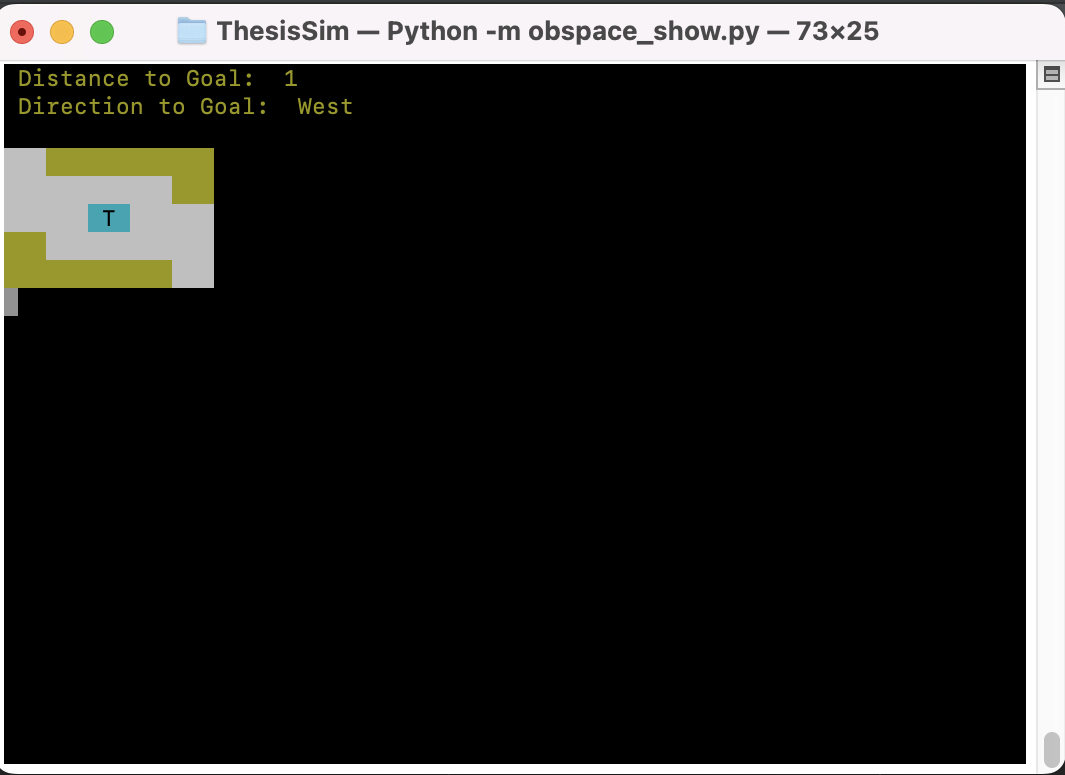
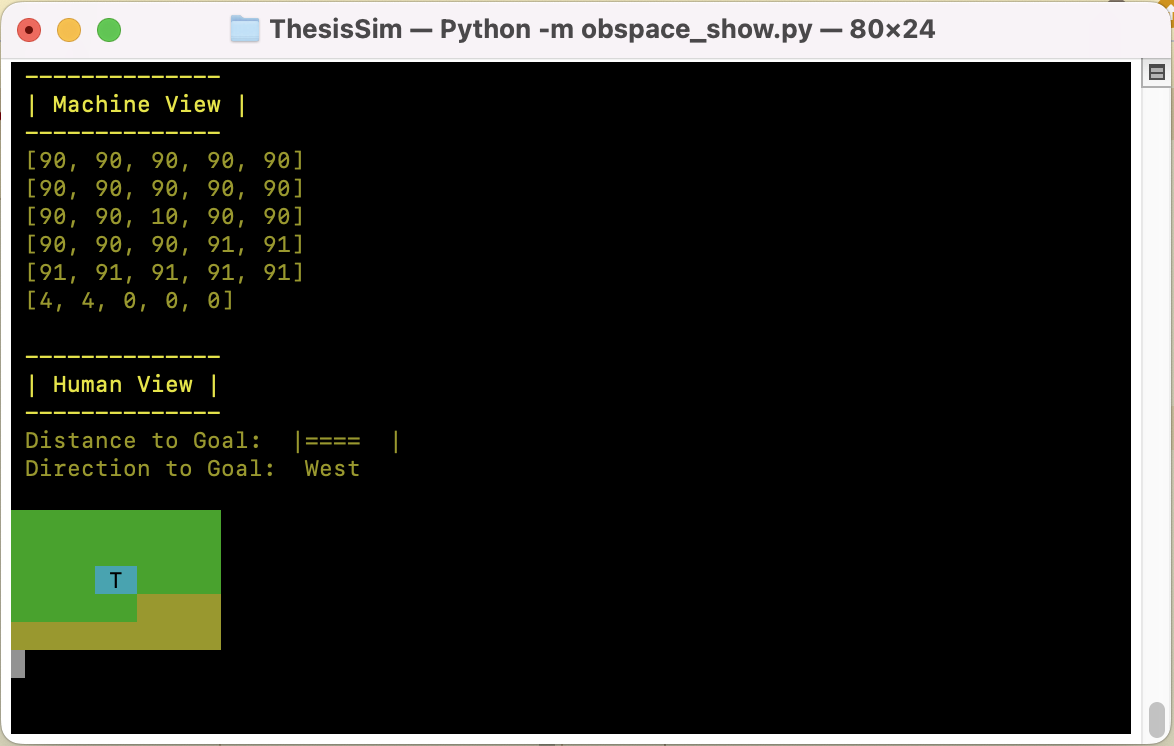
Observation 3x3 added Errors in Movement dismissed Updated Documentation Enhanced ObSpace Viewer with Machine and Human View

Changed region(s): [[0.0, 0.0, 1.0, 1.0], [0.2789, 0.1233, 0.3408, 0.1542]]

diff --git a/obspace_show.py b/obspace_show.py
@@ -16,23 +16,26 @@ map_file = 'observation_space/observation_space.csv'
 
 # set the reduced observation space
 reduced_obspace = True
-reduced_obspace_size = 25  # 5 x 5
-#reduced_obspace_size = 49  # 7 x 7
+#reduced_obspace_size = 9  # 3 x 3
+#reduced_obspace_size = 25  # 5 x 5
+reduced_obspace_size = 49  # 7 x 7
 
 
 finished = False
 
 if reduced_obspace:
-    if reduced_obspace_size == 25:
+    if reduced_obspace_size == 9:
+        obspace_length = 3
+    elif reduced_obspace_size == 25:
         obspace_length = 5
-    if reduced_obspace_size == 49:
+    elif reduced_obspace_size == 49:
         obspace_length = 7
 else:
     obspace_length = 64
 
 while not finished:
 
-    time.sleep(0.1)
+    time.sleep(0.2)
 
     # load observation space file
     with open(map_file, newline='') as csvfile_obspace:
@@ -46,8 +49,31 @@ while not finished:
     # clear screen for rendering new frame of the map
     os.system('clear')
 
+    print(Back.BLACK + Fore.LIGHTYELLOW_EX, "----------------", end="\n" + Back.BLACK)
+    print(Back.BLACK + Fore.LIGHTYELLOW_EX, "| Machine View |", end="\n" + Back.BLACK)
+    print(Back.BLACK + Fore.LIGHTYELLOW_EX, "----------------", end="\n" + Back.BLACK)
+    for l in range(obspace_length + 1):
+        print(Back.BLACK + Fore.YELLOW, list_obspace[l], end="\n" + Back.BLACK)
+    print()
+
+    print(Back.BLACK + Fore.LIGHTYELLOW_EX, "----------------", end="\n" + Back.BLACK)
+    print(Back.BLACK + Fore.LIGHTYELLOW_EX, "|  Human View  |", end="\n" + Back.BLACK)
+    print(Back.BLACK + Fore.LIGHTYELLOW_EX, "----------------", end="\n" + Back.BLACK)
     # render the observation space in terminal
-    print(Back.BLACK + Fore.YELLOW, "Distance to Goal: ", list_obspace[obspace_length][0], end="\n" + Back.BLACK)
+    if list_obspace[obspace_length][0] == 0:
+        print(Back.BLACK + Fore.YELLOW, "Distance to Goal: ", "|      |", end="\n" + Back.BLACK)
+    elif list_obspace[obspace_length][0] == 1:
+        print(Back.BLACK + Fore.YELLOW, "Distance to Goal: ", "|=     |", end="\n" + Back.BLACK)
+    elif list_obspace[obspace_length][0] == 2:
+        print(Back.BLACK + Fore.YELLOW, "Distance to Goal: ", "|==    |", end="\n" + Back.BLACK)
+    elif list_obspace[obspace_length][0] == 3:
+        print(Back.BLACK + Fore.YELLOW, "Distance to Goal: ", "|===   |", end="\n" + Back.BLACK)
+    elif list_obspace[obspace_length][0] == 4:
+        print(Back.BLACK + Fore.YELLOW, "Distance to Goal: ", "|====  |", end="\n" + Back.BLACK)
+    elif list_obspace[obspace_length][0] == 5:
+        print(Back.BLACK + Fore.YELLOW, "Distance to Goal: ", "|===== |", end="\n" + Back.BLACK)
+    elif list_obspace[obspace_length][0] == 6:
+        print(Back.BLACK + Fore.YELLOW, "Distance to Goal: ", "|======|", end="\n" + Back.BLACK)
     #print(Back.BLACK + Fore.YELLOW, "Angle to Goal: ", list_obspace[obspace_length][1], end="\n" + Back.BLACK)
     if list_obspace[obspace_length][1] == 1:
         print(Back.BLACK + Fore.YELLOW, "Direction to Goal: ", "North", end="\n" + Back.BLACK)

diff --git a/MilVehicleSimEnv.py b/MilVehicleSimEnv.py
@@ -22,14 +22,13 @@ class MilVehicleSimEnv(Env):
 
         # set Map and Scenar File!
         self.map_file = "maps/Map01_TankSimEnv.csv"
-        self.scenar_file = "scenars/Scenar02_TankSimEnv.csv"
-        print("Yeah!")
+        self.scenar_file = "scenars/Scenar01_TankSimEnv.csv"
 
         # set Path Tracking
         self.path_tracking = False
 
         # User settings: set Drone Mode
-        self.drone_mode = True
+        self.drone_mode = False
         # User settings: set Drone Speed
         self.speed_drone = 1  # should not be more than 3
 
@@ -160,7 +159,7 @@ class MilVehicleSimEnv(Env):
 
         # move EAST
         elif action == 3:
-            if self.x_coord < self.map_length + self.distance_move:
+            if self.x_coord < self.map_length - self.distance_move:
                 # this is the actual move; it writes the new coordinate in the scenar list
                 self.list_scenar[self.y_coord][self.x_coord + self.distance_move] = self.list_scenar[self.y_coord][self.x_coord]
                 self.list_scenar[self.y_coord][self.x_coord] = 0
@@ -174,7 +173,7 @@ class MilVehicleSimEnv(Env):
 
         # move SOUTH
         elif action == 5:
-            if self.y_coord < self.map_length + self.distance_move:
+            if self.y_coord < self.map_length - self.distance_move:
                 # this is the actual move; it writes the new coordinate in the scenar list
                 self.list_scenar[self.y_coord + self.distance_move][self.x_coord] = self.list_scenar[self.y_coord][self.x_coord]
                 self.list_scenar[self.y_coord][self.x_coord] = 0

diff --git a/reduce_obspace.py b/reduce_obspace.py
@@ -6,8 +6,9 @@ Institute: Institute for Simulation and Training
 
 map_length = 64
 
-reduced_obspace_size = 25  # 5 x 5
-#reduced_obspace_size = 49  # 7 x 7
+#reduced_obspace_size = 9  # 3 x 3
+#reduced_obspace_size = 25  # 5 x 5
+reduced_obspace_size = 49  # 7 x 7
 
 def reduce_obspace(obspace, map_length):
     #entity_x_coord = 0
@@ -20,6 +21,26 @@ def reduce_obspace(obspace, map_length):
                 entity_x_coord = x
                 entity_y_coord = y
                 #print("Coordinate Entity: ", entity_x_coord, ",", entity_y_coord)
+
+    if reduced_obspace_size == 9:
+        # create an empty reduced observation space
+        obspace_red = []
+        for m in range(3):
+            obspace_red_line = []
+            for n in range(3):
+                obspace_red_line.append(0)
+            obspace_red.append(obspace_red_line)
+
+        #print(obspace_red)  # for debugging
+
+        # check if entity is near border of the map
+        for m, y in zip(range(-1, 2), range(3)):
+            for n, x in zip(range(-1, 2), range(3)):
+                if entity_y_coord + m > - 1 and entity_x_coord + n > - 1 and entity_y_coord + m < map_length and entity_x_coord + n < map_length:
+                    obspace_red[y][x] = obspace[entity_y_coord + m][entity_x_coord + n]
+                else:
+                    obspace_red[y][x] = 11
+
 
     if reduced_obspace_size == 25:
         # create an empty reduced observation space

diff --git a/main.py b/main.py
@@ -23,10 +23,19 @@ for episode in range(episodes):
     done = False
     score = 0
 
+    counter = 0
+
     while not done:
         #env.render()
         action = env.action_space.sample()
-        #action = 6
+
+        '''
+        if counter < 12:
+            action = 3
+        else: action = 9
+        counter += 1
+        '''
+
         state, reward, done, info = env.step(action)
 
 

diff --git a/PathViewer_Single.py b/PathViewer_Single.py
@@ -15,7 +15,7 @@ from PIL import Image
 # set image file
 map_file = 'maps/Map01_TankSimEnv.csv'
 scenar_file = 'scenars/Scenar01_TankSimEnv.csv'
-path_file = 'path_tracking/Path_1654107091.868553.csv'
+path_file = 'path_tracking/Path_1654526306.731136.csv'
 
 # set the color codes
 colorcode_forrest = np.array([191, 242, 128])

diff --git a/Documentation/MilVehicelSimEnv_Handbook.md b/Documentation/MilVehicelSimEnv_Handbook.md
@@ -84,13 +84,14 @@ The observation space includes:
 
 * the terrain
 * the entity (tank/drone)
-* the goal
+* the goal (disabled at the moment)
 * NOT the IED
 * Direction from the goal (in reduced observation space only)
 * Distance to the goal (in reduced observation space only)
 
 ### Full Observation Space
 Size: 64 x 64
+Note: Full observation is not quite functional at the moment. The goal is disable due to focus on the reduced observation space.
 
 ### Reduced Observation Space
 A reduced observation space can be activated. This simulated a limited view of the entity.
@@ -108,6 +109,7 @@ The following observation spaces are possible:
 
 The size of the reduced observation space can be set in the `reduce_obspace.py`:
 
+	#reduced_obspace_size = 9  # 3 x 3
 	#reduced_obspace_size = 25  # 5 x 5
 	reduced_obspace_size = 49  # 7 x 7
 
@@ -132,10 +134,12 @@ The reduced observation space needs to be set in the `obspace_show.py` according
 
 	# set the reduced observation space
 	reduced_obspace = True
+	
+	#reduced_obspace_size = 9  # 3 x 3
 	#reduced_obspace_size = 25  # 5 x 5
 	reduced_obspace_size = 49  # 7 x 7
 
-<img src="img/Main_Win_for_Reduced_Obspace.png" alt="drawing" width="400"/>
+<img src="img/Main_Win_for_Reduced_Obspace.png" alt="drawing" width="600"/><br>
 <img src="img/Obspace_Viewer.png" alt="drawing" width="300"/><br>
 Reduced observation space of 7 x 7 in the observation space viewer
 
